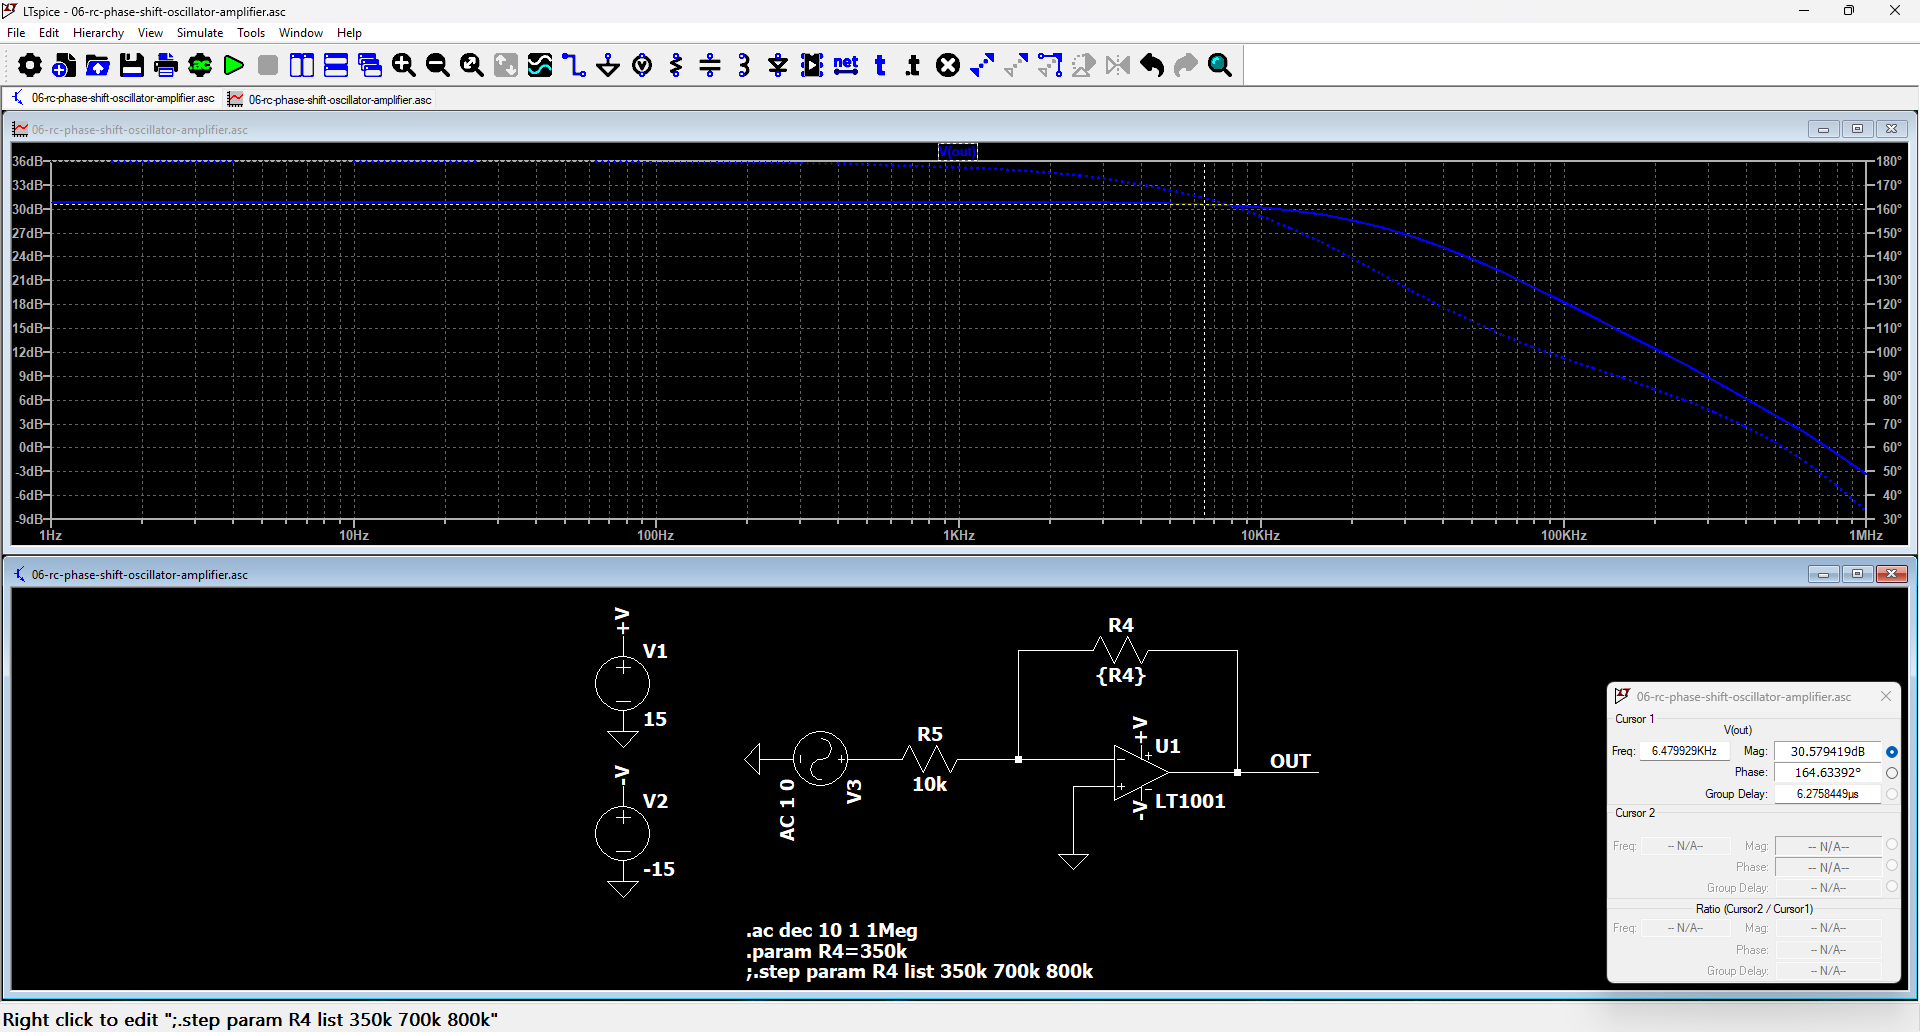
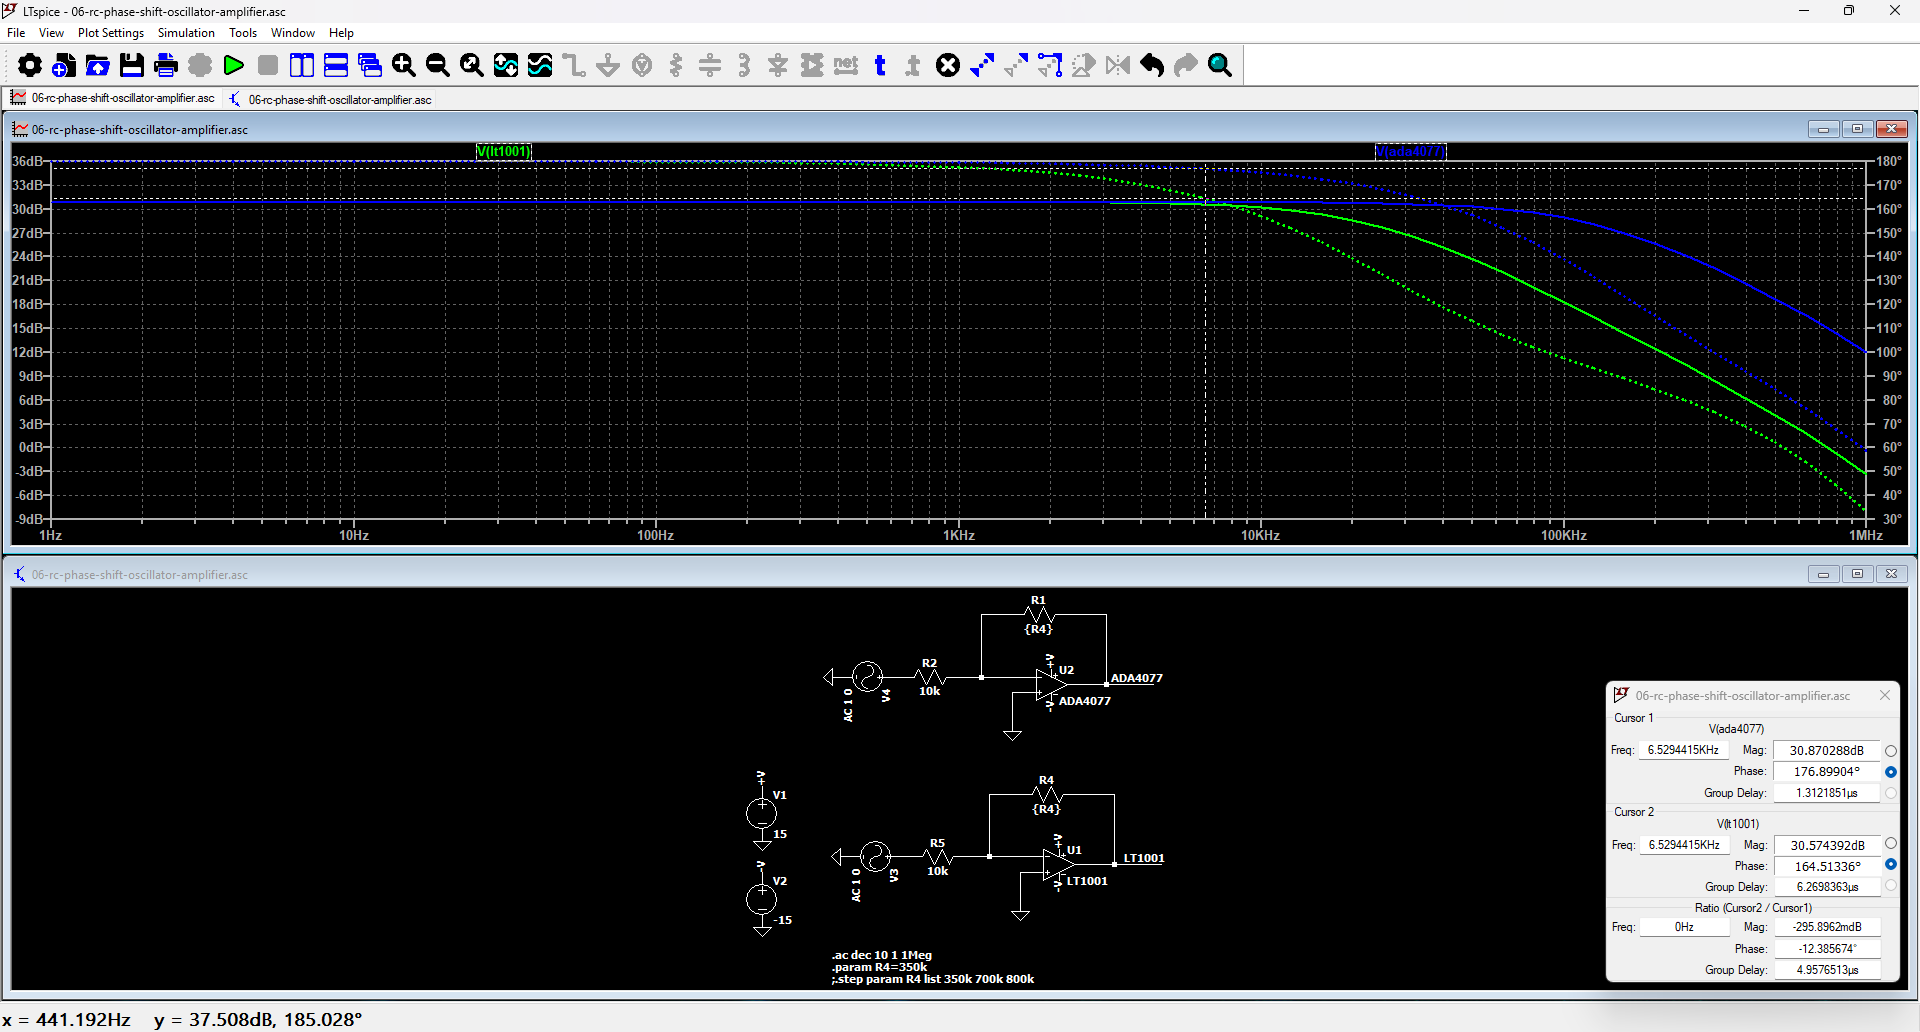
Put both operational amplifier models in the simulation.

diff --git a/_unreleased/2026-03-09-how-not-to-do-oscillators.md b/_unreleased/2026-03-09-how-not-to-do-oscillators.md
@@ -97,7 +97,15 @@ I tried first to check for any loading effects by introducing ideal followers be
 
 Same tendencies, and the needed resistances are even worse. So, this problem is not in the impedances but really in the transfert functions. Since this problem depends on the operational amplifier, it is the point to check. And since it concerns also the low amplitude part, it should be seen also in small signal.
 
+So I made a small signal simulation of the amplifying part with both operational amplifier models to compare:
+
 <img src="{{ '/posts/how-not-to-do-oscillators/06-rc-phase-shift-oscillator-amplifier.png' | relative_url }}"/>
+
+The LT1001 has a low gain-bandwidth product, around 400 kHz in simulation, sufficient to provide the gain requested by the feedback, but with a 15.5° phase delay compared to the ideal value. On the contrary, the ADA4077 had only a 3.1° phase delay. Note the gain with both amplifiers is almost identical.
+
+15.5° would not seem enough to wreak a circuit, but maybe RC phase shift oscillators are pricky ?
+
+I begin to realize that this circuit might be monster and that it drove mad Andreas and Cătălina for a reason...
 
 ## Straight to a solution
 
